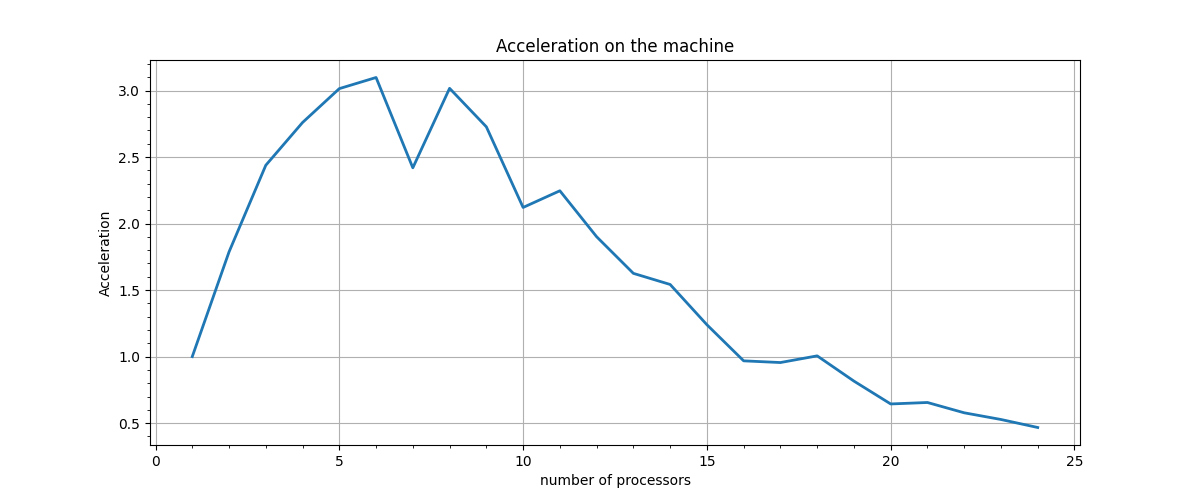
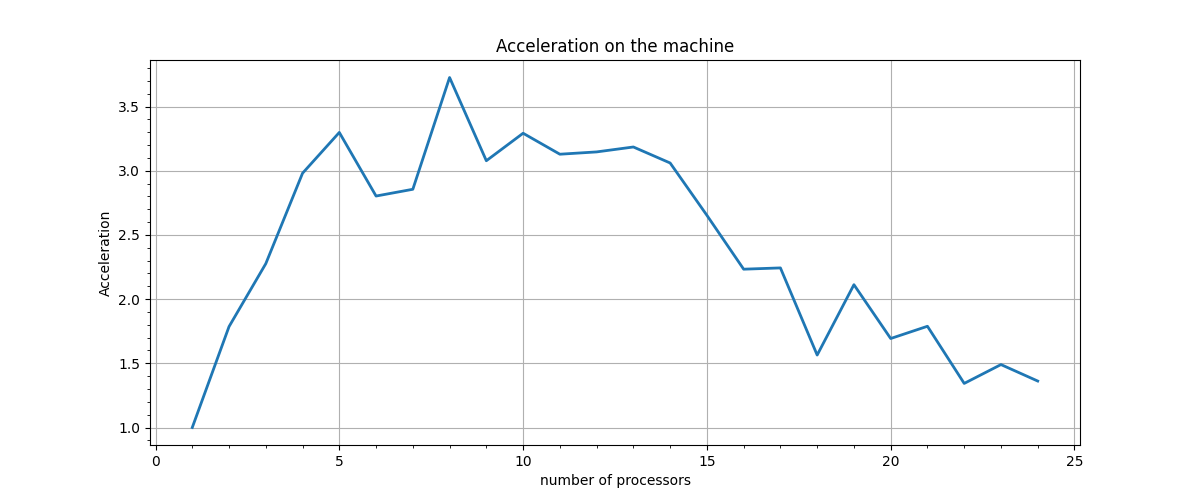
Merge in parallel

diff --git a/MergeSort/main.c b/MergeSort/main.c
@@ -14,7 +14,6 @@ int * merge(int *arr1, int len1, int *arr2, int len2);
 int comp (const int *i, const int *j);
 
 int main(int argc, char **argv) {
-    clock_t start, end;
     double w_start, w_end;
     MPI_Init(&argc, &argv);
 
@@ -37,7 +36,6 @@ int main(int argc, char **argv) {
         arr = generate_arr();
         //print_arr(arr, size);
         // Send the according part to every processor
-        start = clock();
         w_start = MPI_Wtime();
         int *message = arr + loc_size;
         //printf("[Processor %i] loc_size = %i\n", my_rank, loc_size);
@@ -71,51 +69,102 @@ int main(int argc, char **argv) {
     //printf("[processor %i] my part:\n", my_rank);
     //print_arr(buf, loc_size);
     if (my_rank) {
-        MPI_Send(buf,
-                 loc_size,
-                 MPI_INT,
-                 0,
-                 0,
-                 MPI_COMM_WORLD
-                 );
+//        MPI_Send(buf,
+//                 loc_size,
+//                 MPI_INT,
+//                 0,
+//                 0,
+//                 MPI_COMM_WORLD
+//                 );
+        int mod;
+        int *res;
+        int res_size = loc_size;
+        for (int base = 2; base < world * 2; base *= 2) {
+            mod = my_rank % base;
+            if (mod == 0) {
+                int src = my_rank + base / 2;
+                if (src < world) {
+                    int message_len = (loc_size + 1) * base;
+                    int *message_from = (int *) malloc(message_len * sizeof(int));
+                    MPI_Status status;
+                    MPI_Recv(
+                            message_from,
+                            message_len,
+                            MPI_INT,
+                            src,
+                            MPI_ANY_TAG,
+                            MPI_COMM_WORLD,
+                            &status
+                    );
+
+                    //int message_size = compute_loc(status.MPI_SOURCE, world);
+                    MPI_Get_count(&status, MPI_INT, &message_len);
+                    res = merge(buf, res_size, message_from, message_len);
+                    res_size += message_len;
+                    free(buf);
+                    buf = res;
+                    //printf("[processor %i]: merged from %i\n", my_rank, status.MPI_SOURCE);
+                    //print_arr(message_from, message_size);
+                    //print_arr(buf, res_size);
+                    free(message_from);
+                }
+            } else if (mod == base / 2) {
+                MPI_Send(
+                         buf,
+                         res_size,
+                         MPI_INT,
+                         my_rank - base / 2,
+                         0,
+                         MPI_COMM_WORLD
+                );
+                //printf("[processor %i]: sent to %i\n", my_rank, my_rank - base / 2);
+                break;
+            } else {
+                break;
+            }
+        }
     }
     if (my_rank == 0) {
         int *res;
         int res_size = loc_size;
-        int* message_from = (int *) malloc((loc_size + 1) * sizeof(int));
-        for (int i = 0; i < world - 1; ++i) {
+        for (int i = 1; i < world; i *= 2) {
+            int message_len = (loc_size + 1) * (i + 1);
+            int* message_from = (int *) malloc(message_len * sizeof(int));
             MPI_Status status;
             MPI_Recv
             (
                 message_from,
-                loc_size + 1,
+                message_len,
                 MPI_INT,
                 MPI_ANY_SOURCE,
                 MPI_ANY_TAG,
                 MPI_COMM_WORLD,
                 &status
             );
-            int message_size = compute_loc(status.MPI_SOURCE, world);
-            res = merge(buf, res_size, message_from, message_size);
-            res_size += message_size;
+
+            //int message_size = compute_loc(status.MPI_SOURCE, world);
+            MPI_Get_count(&status, MPI_INT, &message_len);
+            res = merge(buf, res_size, message_from, message_len);
+            //printf("[processor %i]: merged from %i\n", my_rank, status.MPI_SOURCE);
+            res_size += message_len;
             free(buf);
             buf = res;
             //printf("merged from %i\n", status.MPI_SOURCE);
             //print_arr(message_from, message_size);
             //print_arr(buf, res_size);
+            free(message_from);
         }
-        free(message_from);
-        end = clock();
-        w_end = MPI_Wtime();;
-        float seconds = (float)(end - start) / CLOCKS_PER_SEC;
-        //printf("%f\n", seconds);
+        w_end = MPI_Wtime();
         printf("%f", -w_start+w_end);
-        //qsort(arr, size, sizeof(int), (int(*) (const void *, const void *)) comp);
-        if (!memcmp(arr, buf, res_size)) {
-            //printf("array was sorted right\n");
-        }
-        //printf("Expected\n");
-        //print_arr(arr, size);
+//        printf("time is %f, res_size = %i\n", -w_start+w_end, res_size);
+//        qsort(arr, size, sizeof(int), (int(*) (const void *, const void *)) comp);
+//        if (!memcmp(arr, buf, res_size)) {
+//            printf("array was sorted right\n");
+//        } else {
+//            printf("array was not sorted right\n");
+//            printf("Expected\n");
+//            print_arr(arr, size);
+//        }
         free(arr);
     }
     free(buf);
